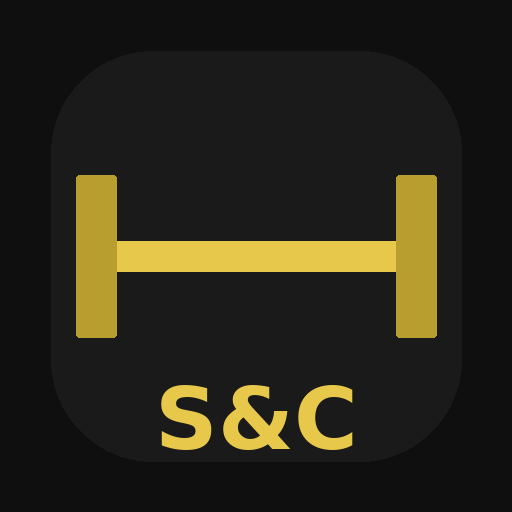
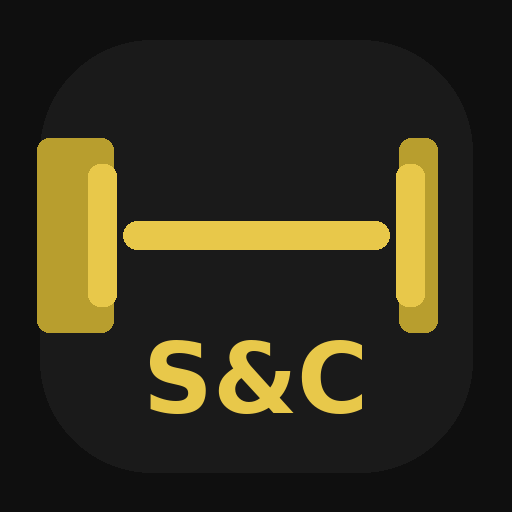
Add files via upload

Changed region(s): [[0.0625, 0.25, 0.875, 0.6875], [0.2812, 0.6562, 0.7188, 0.9062]]

diff --git a/index.html b/index.html
@@ -414,10 +414,8 @@ function showManageProfile(i){
 
         <div class="form-row">
           <label class="form-label">Rename</label>
-          <div style="display:flex;gap:8px">
-            <input class="form-input" id="profRenameInput" value="${pr.name}" style="flex:1" />
-            <button class="btn btn-primary btn-sm" style="margin-top:0;white-space:nowrap" onclick="renameProfile(${i})">Save</button>
-          </div>
+          <input class="form-input" id="profRenameInput" value="${pr.name}" style="margin-bottom:8px" />
+          <button class="btn btn-primary" style="margin-top:0" onclick="renameProfile(${i})">Save name</button>
         </div>
       </div>
 

diff --git a/sw.js b/sw.js
@@ -1,4 +1,4 @@
-const CACHE = 'sc-tracker-v1';
+const CACHE = 'sc-tracker-v2';
 const ASSETS = [
   '/sc-tracker/',
   '/sc-tracker/index.html',